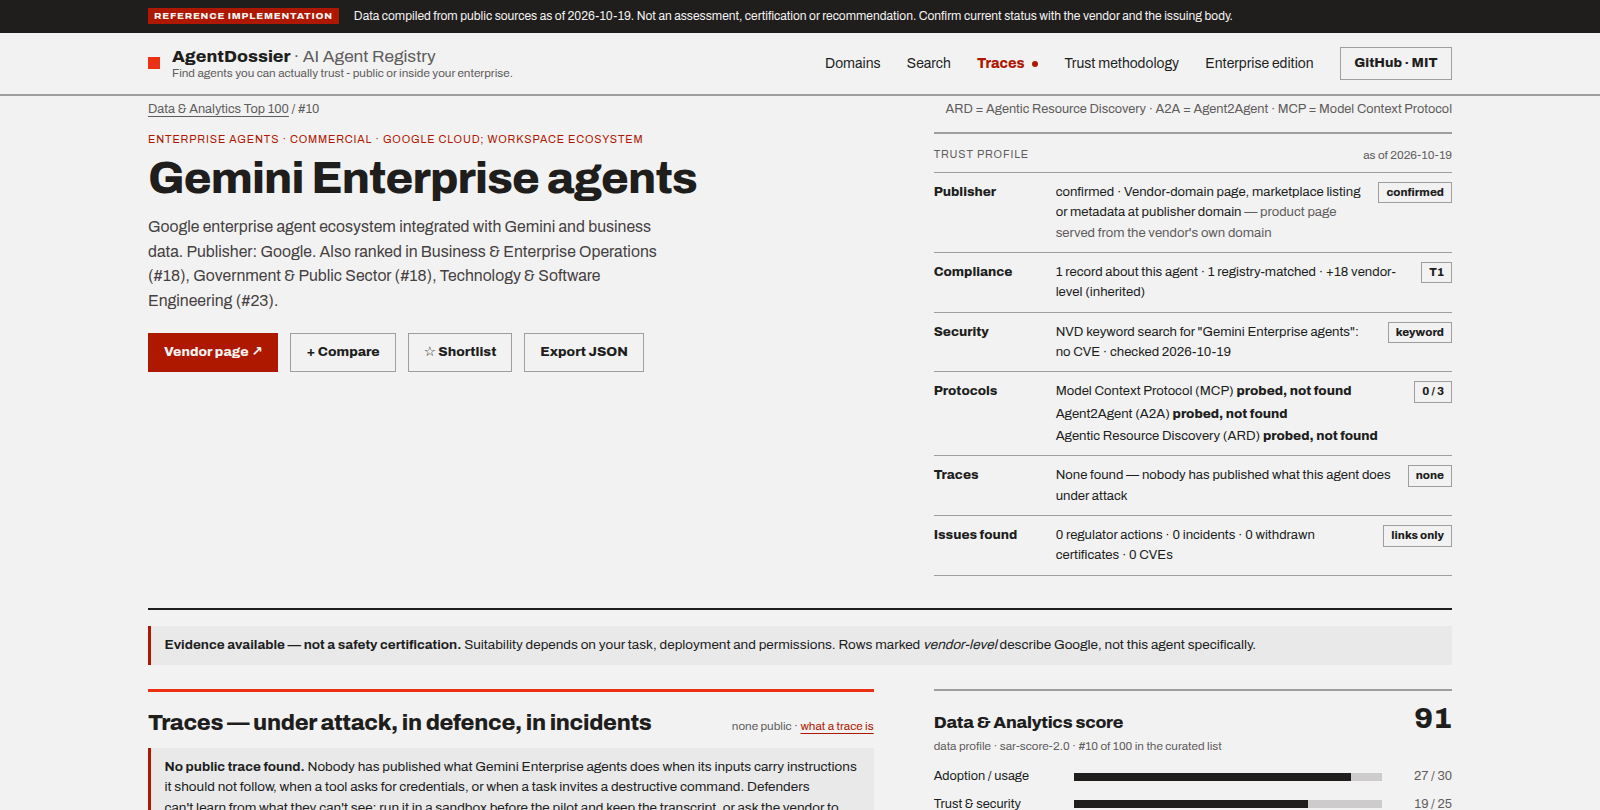
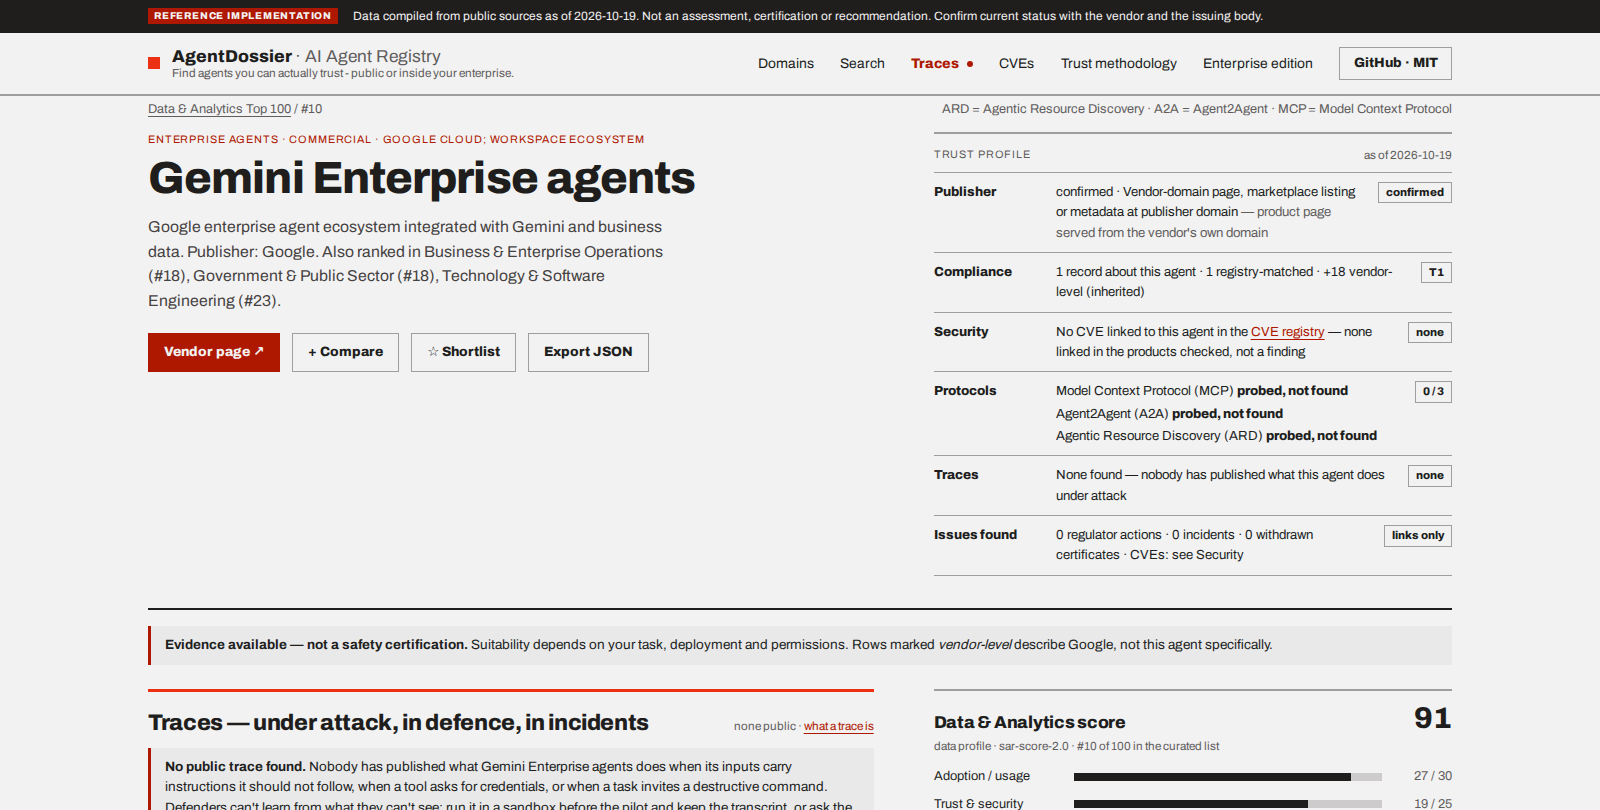
web: link the CVE registry to dossiers, search results and incidents; retire the keyword count (PR 3 of 3)
A dossier's Security row used to say "NVD keyword search for '<name>': 36 results —
may include unrelated products". It now says what the registry actually links to the
agent — "36 CVEs linked in the registry · 27 critical/high · newest 2026-09-17", with
"exploited in the wild (KEV)" when any is — or, when nothing links, "No CVE linked to
this agent in the CVE registry — none linked in the products checked, not a finding".
The tier box reads KEV / linked / none. After the Traces section a "CVEs — on the
official record" band lists the newest eight (id, date, KEV, the official summary,
surface tags, fix known, unreviewed, severity and score) and links to "All N in the
registry" filtered by the agent's listed products; its footnote says severity is the
record's own, nothing enters the score, and links are by listed product so a CVE that
names another component of the platform may be missing. The Issues row no longer
repeats the keyword count ("CVEs: see Security"). Self-hosted builds without the
registry (the cves prop undefined) keep the old wording.

Search results show the same line from /cves/agents.json — per-slug counts, newest
date, KEV and critical/high, ~2 KB fetched once — in place of the keyword word.

Incidents gain a `cves` field (schema: CVE-YYYY-NNNN ids) — set on TR-2026-002
(CVE-2025-32711), TR-2026-011 (CVE-2025-54135/54136) and the TR-2026-027 placeholder
(CVE-2026-65669) — and the incident page lists "CVEs on record": the field plus any
[…]

diff --git a/web/src/components/AgentProfile.tsx b/web/src/components/AgentProfile.tsx
@@ -3,6 +3,8 @@ import { BASE, fetchResourceByIdOrSlug } from "../lib/data";
 import { beforeYouDeploy, type BeforeYouDeploy } from "../lib/deploy";
 import { COMPONENT_LABELS, COMPONENT_MAX, DOMAIN_PROFILES, PROFILES, bestDomain, evidenceGroups, gdprPanel, protocolLines, provenance, tierCounts, tierRange, type EvidenceRow, type Mark } from "../lib/dossier";
 import { IDENTITY_EVIDENCE, IDENTITY_LABEL, IDENTITY_WORD, NEWS_TAG_LABEL, TRACE_KIND_WORD, TRACE_TIER_WORD, RISK_TAGS, domainLabel, fmtDate, frameworkName, variantLabel } from "../lib/labels";
+import { SEVERITY_WORD, SURFACE_LABEL } from "../lib/cve-filter";
+import type { CveLink } from "../lib/cves";
 import type { Resource } from "../lib/types";
 import ShortlistButton from "./ShortlistButton";
 
@@ -21,6 +23,8 @@ export default function AgentProfile({
   shortlist = "island",
   deploy,
   comparison,
+  cves,
+  cveProducts = [],
 }: {
   resource?: Resource;
   id?: string;
@@ -29,6 +33,10 @@ export default function AgentProfile({
   deploy?: BeforeYouDeploy;
   /** link to the worked comparison this agent appears in */
   comparison?: { href: string; title: string } | null;
+  /** the CVE registry's links to this agent, newest first (build time); undefined when the registry is not available */
+  cves?: CveLink[];
+  /** listed-product ids behind those links, for the "all CVEs" link */
+  cveProducts?: string[];
 }) {
   const [res, setRes] = useState<Resource | null | undefined>(resource);
   useEffect(() => {
@@ -61,6 +69,8 @@ export default function AgentProfile({
   const news = res.news ?? [];
   const issues = res.issues;
   const traces = [...(res.traces ?? [])].sort((a, b) => a.tier - b.tier || b.date.localeCompare(a.date));
+  const cveKev = (cves ?? []).filter((c) => c.kev).length;
+  const cveSevere = (cves ?? []).filter((c) => c.severity === "CRITICAL" || c.severity === "HIGH").length;
   const traceTier = (traces.length ? Math.min(...traces.map((t) => t.tier)) : 5) as 1 | 2 | 3 | 4 | 5;
   const checked = !!(res.news_checked || res.security);
   const link = res.url ? (/^https?:/.test(res.url) ? res.url : `https://${res.url}`) : null;
@@ -135,7 +145,19 @@ export default function AgentProfile({
           </div>
           <TrustRow k="Publisher" v={<>{IDENTITY_WORD[res.identity.tier]} · {IDENTITY_LABEL[res.identity.tier]}{res.identity.evidence.length > 0 && <span className="muted"> — {res.identity.evidence.map((e) => IDENTITY_EVIDENCE[e] ?? e).join("; ")}</span>}</>} t={IDENTITY_WORD[res.identity.tier]} />
           <TrustRow k="Compliance" v={tierCounts(res)} t={tierRange(res)} />
-          <TrustRow k="Security" v={res.security ? `NVD keyword search for "${res.name}": ${res.security.cves === 0 ? "no CVE" : `${res.security.cves} result${res.security.cves === 1 ? "" : "s"} — may include unrelated products`} · checked ${fmtDate(res.security.checked_at)}` : "Not checked in this build"} t={res.security ? "keyword" : "–"} />
+          <TrustRow
+            k="Security"
+            v={
+              cves
+                ? cves.length === 0
+                  ? <>No CVE linked to this agent in the <a href={`${BASE}/cves/`}>CVE registry</a> — none linked in the products checked, not a finding</>
+                  : <><a href="#cves">{cves.length} CVE{cves.length === 1 ? "" : "s"} linked</a> in the registry{cveKev ? ` · ${cveKev} exploited in the wild (KEV)` : ""}{cveSevere ? ` · ${cveSevere} critical/high` : ""} · newest {cves[0].published}</>
+                : res.security
+                  ? `NVD keyword search for "${res.name}": ${res.security.cves === 0 ? "no CVE" : `${res.security.cves} result${res.security.cves === 1 ? "" : "s"} — may include unrelated products`} · checked ${fmtDate(res.security.checked_at)}`
+                  : "Not checked in this build"
+            }
+            t={cves ? (cves.length ? (cveKev ? "KEV" : "linked") : "none") : res.security ? "keyword" : "–"}
+          />
           <TrustRow
             k="Protocols"
             v={
@@ -157,7 +179,7 @@ export default function AgentProfile({
             t={protoCount}
           />
           <TrustRow k="Traces" v={traces.length ? `${traces.length} public trace${traces.length === 1 ? "" : "s"} · best: ${TRACE_TIER_WORD[traceTier]}${traces.some((t) => t.observed?.egress) ? " · data left the environment in at least one" : ""}` : "None found — nobody has published what this agent does under attack"} t={traceTier === 5 ? "none" : `T${traceTier}`} />
-          <TrustRow k="Issues found" v={issues && checked ? `${issues.regulator_actions} regulator actions · ${issues.incidents} incidents · ${issues.withdrawn_certificates} withdrawn certificates · ${issues.cves} CVEs` : "Not checked in this build"} t="links only" last />
+          <TrustRow k="Issues found" v={issues && checked ? `${issues.regulator_actions} regulator actions · ${issues.incidents} incidents · ${issues.withdrawn_certificates} withdrawn certificates${cves ? " · CVEs: see Security" : ` · ${issues.cves} CVEs`}` : "Not checked in this build"} t="links only" last />
           {res.identity.tier > 2 && rows.some((r) => r.mark !== "missing") && (
             <p className="tiny muted" style={{ marginTop: "10px" }}>
               Publisher unconfirmed: the evidence below is shown but not counted in the governance score, because nothing yet ties this listing to {res.vendor ?? "the vendor"} beyond {res.identity.evidence.map((e) => IDENTITY_EVIDENCE[e] ?? e).join("; ") || "the name"}. A vendor-domain page, marketplace listing, ARD manifest or A2A card would confirm it.
@@ -223,6 +245,44 @@ export default function AgentProfile({
               ● third-party or vendor report · ◎ this registry's own probe transcript · ⚠ data left the environment. A trace describes one version on one date; it is evidence of behaviour, never a certification. Rows marked unreviewed have not yet been checked against their source by the maintainer.
             </p>
           </section>
+          {cves !== undefined && (
+            <section id="cves" style={{ borderTop: "2px solid var(--rule)", paddingTop: "12px" }}>
+              <div className="row" style={{ justifyContent: "space-between", alignItems: "baseline", marginBottom: "8px" }}>
+                <h2 style={{ fontSize: "1.25rem" }}>CVEs — on the official record</h2>
+                <span className="tiny muted">
+                  {cves.length ? `${cves.length} linked` : "none linked"} · <a href={`${BASE}/cves/`}>the registry</a>
+                </span>
+              </div>
+              {cves.length === 0 ? (
+                <p className="tiny muted">
+                  No CVE in the registry names this agent or its listed product. That reads "none linked in the products checked", never as a finding: a product that is not on the registry's list, or a record that names it differently, is not seen. The vendor's own advisories remain the source of truth.
+                </p>
+              ) : (
+                <>
+                  <div className="ledger">
+                    {cves.slice(0, 8).map((c) => (
+                      <div key={c.id} className="ledger-row" style={{ gridTemplateColumns: "150px 1fr auto" }}>
+                        <span style={{ fontWeight: 800 }}>
+                          <a href={`${BASE}/cves/${c.id.toLowerCase()}/`} style={{ color: "var(--ink)" }}>{c.id}</a>
+                          <div className="tiny muted">{c.published}{c.kev ? <span style={{ color: "var(--danger)", fontWeight: 700 }}> · KEV</span> : ""}</div>
+                        </span>
+                        <span className="small">
+                          {c.summary}
+                          <div className="tiny muted">{c.surface.map((x) => SURFACE_LABEL[x]).join(" · ") || "—"}{c.fix === "fixed" ? " · fix known" : ""}{c.reviewed ? "" : " · unreviewed"}</div>
+                        </span>
+                        <span className="tiny" style={{ textAlign: "right", whiteSpace: "nowrap" }}>{c.severity ? `${SEVERITY_WORD[c.severity]}${c.score !== null ? ` ${c.score.toFixed(1)}` : ""}` : "unscored"}</span>
+                      </div>
+                    ))}
+                  </div>
+                  <p className="tiny muted" style={{ marginTop: "8px" }}>
+                    {cves.length > 8 ? `${cves.length - 8} more · ` : ""}
+                    <a href={`${BASE}/cves/${cveProducts.length ? `?product=${cveProducts.join(",")}` : ""}`}>All {cves.length} in the registry →</a>
+                    {" "}Severity is the official record's; nothing here enters the score. Links are by listed product, so a CVE that names a different component of the same platform may be missing.
+                  </p>
+                </>
+              )}
+            </section>
+          )}
 
           <section>
             <div className="row" style={{ justifyContent: "space-between", alignItems: "baseline", marginBottom: "12px" }}>

diff --git a/web/src/components/SearchApp.tsx b/web/src/components/SearchApp.tsx
@@ -1,5 +1,6 @@
 import { useEffect, useMemo, useRef, useState } from "react";
 import { BASE, agentHref, fetchIndex, fetchSearchDocs } from "../lib/data";
+import { cveSummaryLine, type AgentCveSummary } from "../lib/cve-summary";
 import { IDENTITY_WORD, badgeLabel, domainLabel, frameworkName, securityWord } from "../lib/labels";
 import type { RequirementChip } from "../lib/intent";
 import { Catalog, chipKey, isOpenSource, isSelfHostable, satisfies, type Filters, type Hit } from "../lib/search";
@@ -39,6 +40,14 @@ const SOURCE_NAMES: Record<string, string> = { aws_marketplace: "AWS Marketplace
 export default function SearchApp(props: SearchAppProps) {
   const [index, setIndex] = useState<CatalogIndex | null | undefined>(props.index);
   const [docs, setDocs] = useState<SearchDoc[]>(props.docs ?? []);
+  // The CVE registry's per-agent counts (small); undefined until fetched, null when the registry is not published.
+  const [cveSummary, setCveSummary] = useState<Record<string, AgentCveSummary> | null | undefined>(undefined);
+  useEffect(() => {
+    fetch(`${BASE}/cves/agents.json`)
+      .then((r) => (r.ok ? (r.json() as Promise<Record<string, AgentCveSummary>>) : null))
+      .then(setCveSummary)
+      .catch(() => setCveSummary(null));
+  }, []);
   const [q, setQ] = useState(props.initialQuery ?? "");
   const [submitted, setSubmitted] = useState(props.initialQuery ?? "");
   const [filters, setFilters] = useState<Filters>({ strict: true });
@@ -374,7 +383,7 @@ export default function SearchApp(props: SearchAppProps) {
 
         <div className="results">
           {result?.hits.slice(0, limit).map((h) => (
-            <Result key={h.record.id} hit={h} domain={domainForScore} linkAgents={linkAgents} expanded={expanded === h.record.id} onToggle={() => setExpanded(expanded === h.record.id ? null : h.record.id)} />
+            <Result key={h.record.id} hit={h} domain={domainForScore} linkAgents={linkAgents} expanded={expanded === h.record.id} onToggle={() => setExpanded(expanded === h.record.id ? null : h.record.id)} cveSummary={cveSummary} />
           ))}
           {result && result.hits.length === 0 && <p className="muted">Nothing matches. Remove a chip or loosen a filter.</p>}
           {result && result.hits.length > limit && (
@@ -406,7 +415,7 @@ function protoGlyphs(r: IndexRecord): string {
   return `MCP ${g(r.protocols.mcp)} A2A ${g(r.protocols.a2a)} ARD ${g(r.protocols.ard)}`;
 }
 
-function Result({ hit, domain, linkAgents, expanded, onToggle }: { hit: Hit; domain: string | null; linkAgents: boolean; expanded: boolean; onToggle: () => void }) {
+function Result({ hit, domain, linkAgents, expanded, onToggle, cveSummary }: { hit: Hit; domain: string | null; linkAgents: boolean; expanded: boolean; onToggle: () => void; cveSummary?: Record<string, AgentCveSummary> | null }) {
   const r = hit.record;
   const entry = domain ? r.domains[domain] : null;
   const best = !entry
@@ -482,7 +491,7 @@ function Result({ hit, domain, linkAgents, expanded, onToggle }: { hit: Hit; dom
         <span className="label" style={{ marginBottom: "6px" }}>Trust profile</span>
         <div className="line"><span>Publisher</span><b>{IDENTITY_WORD[r.trust.identity as 1 | 2 | 3 | 4 | 5]}</b></div>
         <div className="line"><span>Compliance</span><b>{tierRange(r)}</b></div>
-        <div className="line"><span>Security</span><b>{securityWord(null, r.trust.security)}</b></div>
+        <div className="line"><span>Security</span><b>{cveSummary ? cveSummaryLine(cveSummary[r.slug]) : securityWord(null, r.trust.security)}</b></div>
         <div className="line"><span>Protocols</span><b>{protoGlyphs(r)}</b></div>
         <div className="line"><span>Issues linked</span><b>{r.trust.issues == null ? "–" : r.trust.issues === 1 ? "0" : "some"}</b></div>
         <div className="actions">

diff --git a/web/src/lib/cves.ts b/web/src/lib/cves.ts
@@ -4,6 +4,7 @@
 // incident cross-links (PR 3) and the exports. Never a score of ours, never an exploit.
 import { readFileSync } from "node:fs";
 import { resolve } from "node:path";
+import { type AgentCveSummary } from "./cve-summary";
 import { type CveCategory, type CveRow, type CveStatus, type CveSurface, type FixStatus, type Severity, cveSlug } from "./cve-filter";
 
 export interface CveProduct {
@@ -158,3 +159,65 @@ export const MATCH_TEST_WORD: Record<string, string> = {
   "B:cwe": "CWE-1427 (improper neutralization of generative-AI prompts)",
   "B:vocabulary": "agent vocabulary in the official description",
 };
+
+/** What a dossier shows about one linked CVE: enough for the Security row and the CVE band. */
+export interface CveLink {
+  id: string;
+  published: string;
+  severity: Severity | null;
+  score: number | null;
+  surface: CveSurface[];
+  kev: boolean;
+  fix: FixStatus;
+  reviewed: boolean;
+  summary: string;
+}
+
+/** The CVEs linked to a catalog agent, newest first (the dossier's Security row and CVE band). */
+export function cveLinksForAgent(agentSlug: string): CveLink[] {
+  const names = productNames();
+  return cvesForAgent(agentSlug)
+    .map((r) => {
+      const row = toRow(r, names);
+      return { id: r.id, published: r.published, severity: row.severity, score: row.score, surface: r.surface, kev: row.kev, fix: row.fix, reviewed: row.reviewed, summary: row.summary };
+    })
+    .sort((a, b) => b.published.localeCompare(a.published) || a.id.localeCompare(b.id));
+}
+
+interface ProductAgents {
+  products: Array<{ id: string; agents?: string[] }>;
+}
+let cachedAgentProducts: Record<string, string[]> | undefined;
+
+/** Catalog slug → listed-product ids (config/cve_products.json), for the "all CVEs" link on a dossier. */
+export function productIdsForAgent(agentSlug: string): string[] {
+  if (!cachedAgentProducts) {
+    const path = resolve(process.env.CVE_PRODUCTS ?? "../config/cve_products.json");
+    cachedAgentProducts = {};
+    try {
+      const cfg = JSON.parse(readFileSync(path, "utf8")) as ProductAgents;
+      for (const p of cfg.products) for (const a of p.agents ?? []) (cachedAgentProducts[a] ??= []).push(p.id);
+    } catch (e) {
+      if ((e as NodeJS.ErrnoException).code !== "ENOENT") throw e;
+    }
+  }
+  return cachedAgentProducts[agentSlug] ?? [];
+}
+
+/** Per catalog slug: how many CVEs link to it, how many are in KEV or critical/high, and the newest
+ *  date — the search result's mark (/cves/agents.json), small enough to fetch once. */
+export type { AgentCveSummary };
+
+export function agentCveSummary(): Record<string, AgentCveSummary> {
+  const out: Record<string, AgentCveSummary> = {};
+  for (const r of loadCves()?.records ?? []) {
+    for (const slug of r.related_agents ?? []) {
+      const s = (out[slug] ??= { n: 0, kev: 0, severe: 0, newest: "" });
+      s.n += 1;
+      if (r.kev) s.kev += 1;
+      if (r.cvss?.severity === "CRITICAL" || r.cvss?.severity === "HIGH") s.severe += 1;
+      if (r.published > s.newest) s.newest = r.published;
+    }
+  }
+  return out;
+}

diff --git a/web/tests/cves.test.ts b/web/tests/cves.test.ts
@@ -111,3 +111,30 @@ describe("CVE registry (data/cves/index.json)", () => {
     expect(cvesForAgent("langflow-langflow").length).toBeGreaterThan(0);
   });
 });
+
+describe("CVE cross-links on dossiers, search results and incidents", () => {
+  it("lists an agent's CVEs newest first with the product ids behind them", async () => {
+    const { cveLinksForAgent, productIdsForAgent, agentCveSummary } = await import("../src/lib/cves");
+    const links = cveLinksForAgent("langflow-langflow");
+    expect(links.length).toBeGreaterThan(10);
+    for (let i = 1; i < links.length; i++) expect(links[i - 1].published >= links[i].published).toBe(true);
+    expect(productIdsForAgent("langflow-langflow")).toEqual(["langflow"]);
+    expect(productIdsForAgent("no-such-agent")).toEqual([]);
+    const summary = agentCveSummary();
+    expect(summary["langflow-langflow"].n).toBe(links.length);
+    expect(summary["langflow-langflow"].newest).toBe(links[0].published);
+  });
+
+  it("words the summary line for none, one and several", async () => {
+    const { cveSummaryLine } = await import("../src/lib/cve-summary");
+    expect(cveSummaryLine(undefined)).toBe("No CVE linked in the registry");
+    expect(cveSummaryLine({ n: 1, kev: 0, severe: 0, newest: "2026-01-01" })).toBe("1 CVE linked · newest 2026-01-01");
+    expect(cveSummaryLine({ n: 3, kev: 1, severe: 2, newest: "2026-10-05" })).toBe("3 CVEs linked · 1 in KEV · 2 critical/high · newest 2026-10-05");
+  });
+
+  it("an incident's cves: field resolves to registry records", async () => {
+    const { incidentById } = await import("../src/lib/incidents");
+    expect(incidentById("tr-2026-002")?.cves).toEqual(["CVE-2025-32711"]);
+    expect(incidentById("tr-2026-011")?.cves).toEqual(["CVE-2025-54135", "CVE-2025-54136"]);
+  });
+});

diff --git a/web/src/lib/cve-summary.ts b/web/src/lib/cve-summary.ts
@@ -1,0 +1,18 @@
+// The CVE registry's per-agent mark (/cves/agents.json): browser-safe, used by the search results.
+
+export interface AgentCveSummary {
+  n: number;
+  kev: number;
+  severe: number;
+  newest: string;
+}
+
+/** One line for a Security row or a search result: "3 CVEs linked · 1 in KEV · 2 critical/high · newest 2026-10-05". */
+export function cveSummaryLine(s: AgentCveSummary | null | undefined): string {
+  if (!s || s.n === 0) return "No CVE linked in the registry";
+  const parts = [`${s.n} CVE${s.n === 1 ? "" : "s"} linked`];
+  if (s.kev) parts.push(`${s.kev} in KEV`);
+  if (s.severe) parts.push(`${s.severe} critical/high`);
+  parts.push(`newest ${s.newest}`);
+  return parts.join(" · ");
+}

diff --git a/web/src/pages/cves/agents.json.ts b/web/src/pages/cves/agents.json.ts
@@ -1,0 +1,5 @@
+// Per catalog agent: how many CVEs the registry links to it (the search result's mark). Small.
+import type { APIRoute } from "astro";
+import { agentCveSummary } from "../../lib/cves";
+
+export const GET: APIRoute = () => new Response(JSON.stringify(agentCveSummary()), { headers: { "Content-Type": "application/json" } });

diff --git a/web/src/lib/incidents.ts b/web/src/lib/incidents.ts
@@ -42,6 +42,8 @@ export interface Incident {
   lessons?: string[];
   models_named?: NamedModel[];
   related_agents?: string[];
+  /** Official CVE ids the incident concerns (schema `cves`). */
+  cves?: string[];
   vendor_response?: string | null;
   sources: IncidentSource[];
   reviewer?: string | null;

diff --git a/docs/cves.md b/docs/cves.md
@@ -97,6 +97,17 @@ advisories) to this registry instead of filing them as incident candidates.
   Buttons: the CVE.org record, NVD, JSON, "Report a wrong listing" (a GitHub issue).
 - Nav tab **CVEs** between Traces and Trust methodology; `/methodology/#cves` has the rules;
   `/about/` names the source. Pages are in the axe/Lighthouse audit (`npm run audit`).
+- **Dossiers.** The Security row says what the registry links to the agent — "N CVEs linked ·
+  K exploited in the wild (KEV) · M critical/high · newest date", or "No CVE linked … none linked in
+  the products checked, not a finding" — and a *CVEs — on the official record* band after Traces
+  lists the newest eight with severity, surface tags and fix status, linking to "all N" on `/cves/`
+  filtered by the agent's listed products. The old NVD keyword count is no longer shown (the Issues
+  row points to Security); the score is untouched, since the keyword check never entered it either.
+  Links are by listed product (`config/cve_products.json` → `agents`), so a CVE that names a
+  different component of the same platform may be missing — the band says so.
+- **Search results** show the same line from `/cves/agents.json` (per-slug counts, ~2 KB).
+- **Incident pages** list *CVEs on record*: the incident's own `cves:` field plus any registry
+  record that names the incident, each linking to the registry page or the official record.
 - Code: `web/src/lib/cve-filter.ts` (browser-safe model, filters, URL sync, CSV — tested in
   `web/tests/cves.test.ts`), `web/src/lib/cves.ts` (build-time loader, rows, cross-links),
   `web/src/components/CveApp.tsx`, `web/src/pages/cves/`.

diff --git a/CHANGELOG.md b/CHANGELOG.md
@@ -6,6 +6,18 @@ listed in `docs/methodology.md`.
 
 ## [Unreleased]
 
+### Added — CVE cross-links (PR 3 of 3)
+- Every dossier's **Security** row now says what the CVE registry links to the agent ("36 CVEs
+  linked · 27 critical/high · newest 2026-09-17", or "No CVE linked … none linked in the products
+  checked, not a finding"), and a **CVEs — on the official record** band after Traces lists the
+  newest eight with severity, surface and fix status, linking to the filtered registry. The NVD
+  keyword count is retired from the dossier (the Issues row points to Security); no score changes.
+- Search results carry the same line (`/cves/agents.json`); an incident page lists the **CVEs on
+  record** (the new `cves:` field in `schema/incident_record.schema.json`, set on TR-2026-002,
+  TR-2026-011 and the TR-2026-027 placeholder, plus any registry record naming the incident);
+  a CVE page lists the dossiers and incidents that name it. `/methodology/` says how the links
+  are made and read. README dossier screenshots re-shot.
+
 ### Added — CVE registry on the site (PR 2 of 3)
 - A **CVEs** tab (`/cves/`) between Traces and Trust methodology: every listed CVE in one
   filterable table — KEV, reviewed, severity, attack surface, category, product, year, fix status;

diff --git a/README.md b/README.md
@@ -217,8 +217,10 @@ decide.
   every Monday (`data/cves/`, [`docs/cves.md`](docs/cves.md)). On the site:
   [`/cves/`](https://sushegaad.github.io/AgentDossier/cves/) — filter by severity,
   attack surface, category, product, year and KEV; search; a page and JSON per
-  CVE; CSV and JSON export; every filtered view is a link. A CVE count never
-  changes a score.
+  CVE; CSV and JSON export; every filtered view is a link. Each dossier's
+  Security row and a CVE band show what the registry links to that agent;
+  incident pages list the CVEs their sources name. A CVE count never changes
+  a score.
 - **Discovery and curation.** A curated Top 100 per domain plus agents
   discovered from GitHub, Hugging Face, the MCP registry, marketplaces and ARD
   manifests, with demo, deprecated and abandoned projects filtered out.

diff --git a/docs/incidents.md b/docs/incidents.md
@@ -22,6 +22,7 @@ what to take from it, and sources.
 | `timeline` | dated lines, each with an evidence tier and a source index |
 | `lessons` | what a defender can take from it (the maintainer's reading) |
 | `related_agents` | catalog slugs; the registry and the dossier cross-link both ways |
+| `cves` | official CVE ids the sources name (`CVE-YYYY-NNNN`); the incident page links each to its registry page (or the official record when it is not listed there), and the CVE registry links back (`related_incidents`) |
 | `sources` | at least one public https source with a date |
 | `reviewer` / `checked_on` | null until a person has checked the entry |
 | `specimen` | true if an illustrative composite, shown labelled as such |
